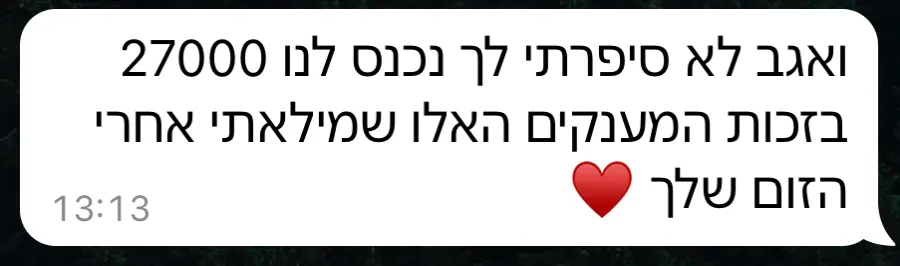
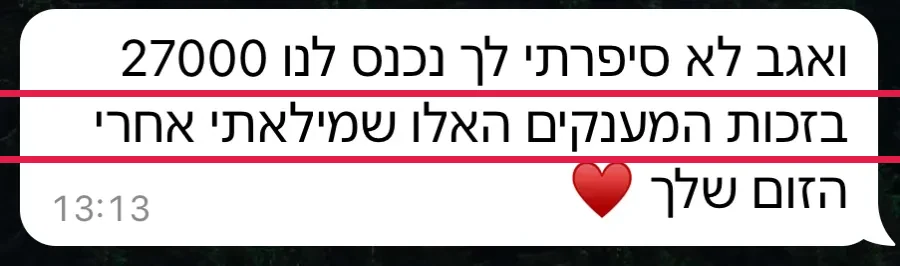
קו אדום מתחת למשפט החשוב בכל הודעה, ההודעה הארוכה נחתכה, רותם במקום הדר, כותרת גדולה
- 19 צילומי הווטסאפ: קו אדום מתחת למשפט (או 2-3) הכי חשוב.
  המקורות בלי הקווים נשמרו ב-work/wa-src, והקוד ב-work/wa_underline.py
- "היי עדי! קודם כל רוצה להגיד לך תודה…" נחתכה אחרי "פתח לי עולם שלם",
  ועברה להרצאת יועץ ההשקעות ליד "מאז ההרצאה קיבלתי אומץ"
- הסרטון של רותם במקום של הדר גלזר ("הכסף שלך ושל בעלך"), הדר בסוף העדויות
- "אמא משקיעה" בראש הדף גדולה בהרבה, בשורה אחת גם בטלפון
- לפני "ב-6 שנים": רקע אפור בהיר במקום אותו קרם, ופחות רווח מתחת לראש הדף

Changed region(s): [[0.0, 0.5714, 1.0, 0.6316], [0.0, 0.3308, 1.0, 0.391]]

diff --git a/index.html b/index.html
@@ -113,7 +113,7 @@ header.site{padding:18px 0 4px}
 header.site img{height:46px;width:auto}
 
 /* hero */
-.hero{padding-top:clamp(22px,4vw,44px)}
+.hero{padding-top:clamp(22px,4vw,44px);padding-bottom:clamp(20px,4vw,40px)}
 .hero .sub{font-size:clamp(1.15rem,3vw,1.35rem);font-weight:500;color:var(--ink-soft);margin:16px auto 26px;line-height:1.5;max-width:32ch}
 .hero h1 .accent{color:var(--pink)}
 /* הכותרת הראשית רחבה מהעמודה בדסקטופ, כדי לא להישבר ל-6 שורות */
@@ -588,7 +588,8 @@ html.a11y-noanim *{animation:none!important;transition:none!important;scroll-beh
 .phones figcaption{text-align:center}
 .checks{margin-inline:auto}
 .checks li{margin-inline:auto}
-.hero .hero-brand{color:var(--pink);margin:6px 0 0}
+.hero .hero-brand{color:var(--pink);margin:10px 0 0;font-size:clamp(2.1rem,9.4vw,3.8rem);line-height:1.1;white-space:nowrap}
+.hero .hero-brand::before,.hero .hero-brand::after{width:clamp(18px,5vw,48px);height:5px;margin:0 clamp(8px,2.4vw,14px)}
 .story-checks{margin:26px auto 0;display:grid;gap:14px;padding:0;list-style:none}
 .story-checks li{font-size:1.1rem;line-height:1.55;max-width:36ch}
 </style>
@@ -614,7 +615,7 @@ html.a11y-noanim *{animation:none!important;transition:none!important;scroll-beh
 </section>
 
 <!-- ========== הסיפור ========== -->
-<section class="story band-cream">
+<section class="story band-gray">
   <div class="wrap">
     <p class="bignum">ב-6 שנים האחרונות הכנסתי כל חודש בין מאות לאלפי שקלים בלי להתעסק בזה בכלל…</p>
 <!-- ===== ממתין מעדי: צילומי מסך של חודשים עוקבים.
@@ -666,10 +667,10 @@ html.a11y-noanim *{animation:none!important;transition:none!important;scroll-beh
     </ul>
     <div class="proof"><span class="proof-lbl">מהשטח</span><div class="proof-items two">
       <div class="vid">
-        <div class="frame" data-vid="1115442335"><img src="assets/v-hadar.webp" alt="" width="540" height="960" loading="lazy"><button class="play" type="button" aria-label="לצפייה בעדות של הדר"><span><svg viewBox="0 0 24 24" fill="#191A2E" aria-hidden="true"><path d="M8 5v14l11-7z"/></svg></span></button></div>
-        <blockquote>"בעלי ואני מדברים על כסף ומחליטים החלטות יחד."<b>הדר גלזר</b></blockquote>
+        <div class="frame" data-vid="1115442139"><img src="assets/v-rotem.webp" alt="" width="540" height="960" loading="lazy"><button class="play" type="button" aria-label="לצפייה בעדות של רותם"><span><svg viewBox="0 0 24 24" fill="#191A2E" aria-hidden="true"><path d="M8 5v14l11-7z"/></svg></span></button></div>
+        <blockquote>"הפקדתי גם לקרן השתלמות, גם לקופת גמל, וגם קנינו דירה להשקעה תוך כדי התכנית."<b>רותם</b></blockquote>
       </div>
-      <figure class="wa"><img src="assets/wa-t-zug.webp" alt="הודעה מזוג: בהחלט ההשקעה הכי טובה שעשינו. למדתי המון ושחר הרוויח שותפה לעניין הכלכלי. תודה שהיית קשובה לאורך התקופה" width="900" height="1163" loading="lazy"><figcaption>"ההשקעה הכי טובה שעשינו." והבעל הרוויח שותפה.</figcaption></figure>
+      <figure class="wa"><img src="assets/wa-t-zug.webp?v=u1" alt="הודעה מזוג: בהחלט ההשקעה הכי טובה שעשינו. למדתי המון ושחר הרוויח שותפה לעניין הכלכלי. תודה שהיית קשובה לאורך התקופה" width="900" height="1163" loading="lazy"><figcaption>"ההשקעה הכי טובה שעשינו." והבעל הרוויח שותפה.</figcaption></figure>
     </div></div>
   </div>
 </section>
@@ -685,7 +686,7 @@ html.a11y-noanim *{animation:none!important;transition:none!important;scroll-beh
         <div class="frame" data-vid="1167389559"><img src="assets/v-aluma.webp" alt="" width="540" height="960" loading="lazy"><button class="play" type="button" aria-label="לצפייה בעדות של אלומה"><span><svg viewBox="0 0 24 24" fill="#191A2E" aria-hidden="true"><path d="M8 5v14l11-7z"/></svg></span></button></div>
         <blockquote>"מצאתי מעל 200 אלף ₪ שלא ידעתי שיש לי."<b>אלומה וייס</b></blockquote>
       </div>
-      <figure class="wa"><img src="assets/wa-t-17205.webp" alt="הודעה: בזכות הקורס יצרתי קשר עם החזרי מס, ואתמול אני ובעלי קיבלנו 17,205 ש״ח לחשבון" width="900" height="1043" loading="lazy"><figcaption>17,205 ₪ החזר מס שנכנס לחשבון.</figcaption></figure>
+      <figure class="wa"><img src="assets/wa-t-17205.webp?v=u1" alt="הודעה: בזכות הקורס יצרתי קשר עם החזרי מס, ואתמול אני ובעלי קיבלנו 17,205 ש״ח לחשבון" width="900" height="1043" loading="lazy"><figcaption>17,205 ₪ החזר מס שנכנס לחשבון.</figcaption></figure>
     </div></div>
   </div>
 </section>
@@ -711,7 +712,7 @@ html.a11y-noanim *{animation:none!important;transition:none!important;scroll-beh
         <div class="have">כל הכסף הפנוי שלך, גם זה שלא ידעת על קיומו.</div>
         <p class="ex">לאלומה מצאנו מעל 200,000 ש״ח בקופה שהיא לא ידעה על קיומה. לרוב אנחנו מוצאות בממוצע 20,000 ש״ח אבודים בקופות נסתרות.</p>
     <div class="proof"><span class="proof-lbl">מהשטח</span><div class="proof-items">
-      <figure class="wa"><img src="assets/wa-t-27000.webp" alt="הודעה: ואגב לא סיפרתי לך, נכנס לנו 27,000 בזכות המענקים האלו שמילאתי אחרי הזום שלך" width="900" height="266" loading="lazy"><figcaption>27,000 ₪ ממענקים. אחרי זום אחד.</figcaption></figure>
+      <figure class="wa"><img src="assets/wa-t-27000.webp?v=u1" alt="הודעה: ואגב לא סיפרתי לך, נכנס לנו 27,000 בזכות המענקים האלו שמילאתי אחרי הזום שלך" width="900" height="266" loading="lazy"><figcaption>27,000 ₪ ממענקים. אחרי זום אחד.</figcaption></figure>
     </div></div>
       </li>
       <li class="station">
@@ -728,7 +729,7 @@ html.a11y-noanim *{animation:none!important;transition:none!important;scroll-beh
         <p>קודם הגב. כמה חודשי מחיה מתאימים לכן, איפה הכסף הזה יושב כדי שיהיה זמין ולא יישחק, ואיך הוא נשאר בצד גם כשיש פיתוי. זה מה שנותן שקט לפני שנוגעים בהשקעות.</p>
         <div class="have">קרן חירום מוגדרת, במקום הנכון.</div>
     <div class="proof"><span class="proof-lbl">מהשטח</span><div class="proof-items">
-      <figure class="wa"><img src="assets/wa-t-tama.webp" alt="הודעה: רציתי להגיד ששמתי בקרן כספית סכום של 3 חודשי מחיה שלי, וזה עשה לי הרגשה כל כך טובה" width="900" height="1116" loading="lazy"><figcaption>קרן חירום של 3 חודשי מחיה. "הרגשה כל כך טובה."</figcaption></figure>
+      <figure class="wa"><img src="assets/wa-t-tama.webp?v=u1" alt="הודעה: רציתי להגיד ששמתי בקרן כספית סכום של 3 חודשי מחיה שלי, וזה עשה לי הרגשה כל כך טובה" width="900" height="1116" loading="lazy"><figcaption>קרן חירום של 3 חודשי מחיה. "הרגשה כל כך טובה."</figcaption></figure>
     </div></div>
       </li>
       <li class="station">
@@ -744,12 +745,8 @@ html.a11y-noanim *{animation:none!important;transition:none!important;scroll-beh
         <h3>הביצוע, עם אנשי המקצוע</h3>
         <p>הפגישה האישית עם עמית ביטון, הסוכן הפנסיוני של הצוות: מסלקה, דמי ניהול, סידור הפנסיה והביטוחים. פותחות מה שצריך, ומורידות הוראת קבע להשקעות. ומי שרוצה פותחת גם תיק השקעות עצמאי, עם מענה אישי מ-IBI על הפתיחה ומיועץ ההשקעות על התמהיל בפנים. הם עושים את הבירוקרטיה, את מקבלת את הבהירות.</p>
         <div class="have">חשבונות פתוחים והוראת קבע שמוגדרת.</div>
-    <div class="proof"><span class="proof-lbl">מהשטח</span><div class="proof-items two">
-      <div class="vid">
-        <div class="frame" data-vid="1115442139"><img src="assets/v-rotem.webp" alt="" width="540" height="960" loading="lazy"><button class="play" type="button" aria-label="לצפייה בעדות של רותם"><span><svg viewBox="0 0 24 24" fill="#191A2E" aria-hidden="true"><path d="M8 5v14l11-7z"/></svg></span></button></div>
-        <blockquote>"הפקדתי גם לקרן השתלמות, גם לקופת גמל, וגם קנינו דירה להשקעה תוך כדי התכנית."<b>רותם</b></blockquote>
-      </div>
-      <figure class="wa"><img src="assets/wa-t-openacc.webp" alt="הודעה: ברוך השם בזכותך אחרי הרבה שיעורי בית פתחתי קרן השתלמות, קרן פנסיה וקופת גמל להשקעה ממש היום. אין לתאר כמה שזה קרה אך ורק בעקבות הקורס" width="900" height="589" loading="lazy"><figcaption>פתחה קרן השתלמות, פנסיה וגמל להשקעה. באותו יום.</figcaption></figure>
+    <div class="proof"><span class="proof-lbl">מהשטח</span><div class="proof-items">
+      <figure class="wa"><img src="assets/wa-t-openacc.webp?v=u1" alt="הודעה: ברוך השם בזכותך אחרי הרבה שיעורי בית פתחתי קרן השתלמות, קרן פנסיה וקופת גמל להשקעה ממש היום. אין לתאר כמה שזה קרה אך ורק בעקבות הקורס" width="900" height="589" loading="lazy"><figcaption>פתחה קרן השתלמות, פנסיה וגמל להשקעה. באותו יום.</figcaption></figure>
     </div></div>
       </li>
       <li class="station finish">
@@ -786,7 +783,7 @@ html.a11y-noanim *{animation:none!important;transition:none!important;scroll-beh
         <div class="frame" data-vid="1167389305"><img src="assets/v-racheli.webp" alt="" width="540" height="960" loading="lazy"><button class="play" type="button" aria-label="לצפייה בעדות של רחלי"><span><svg viewBox="0 0 24 24" fill="#191A2E" aria-hidden="true"><path d="M8 5v14l11-7z"/></svg></span></button></div>
         <blockquote>"לא מאמינה שלא ידעתי את הדברים האלה לפני."<b>רחלי</b></blockquote>
       </div>
-      <figure class="wa"><img src="assets/wa-t-liat.webp" alt="הודעה: כל שיעור היה מדהים, מעניין, פותח את הראש. לפעמים מעצבן כי ביאס אותי שלא ידעתי את הדברים האלה לפני. כמה למדתי אפילו רק בשיעור אחד" width="900" height="1778" loading="lazy"><figcaption>"כמה למדתי, אפילו רק בשיעור אחד."</figcaption></figure>
+      <figure class="wa"><img src="assets/wa-t-liat.webp?v=u1" alt="הודעה: כל שיעור היה מדהים, מעניין, פותח את הראש. לפעמים מעצבן כי ביאס אותי שלא ידעתי את הדברים האלה לפני. כמה למדתי אפילו רק בשיעור אחד" width="900" height="1778" loading="lazy"><figcaption>"כמה למדתי, אפילו רק בשיעור אחד."</figcaption></figure>
     </div></div>
 
     <div class="library">
@@ -828,8 +825,8 @@ html.a11y-noanim *{animation:none!important;transition:none!important;scroll-beh
       <p class="note">החלוקה משתנה מאישה לאישה. זה בדיוק מה שבונים בליווי, על המספרים שלך.</p>
     </div>
     <div class="proof"><span class="proof-lbl">מהשטח</span><div class="proof-items two">
-      <figure class="wa"><img src="assets/wa-t-180.webp" alt="הודעה: שינוי של 180 מעלות באיך אני תופסת כסף. כספית נוסך בי ממש ביטחון, כי בסוף זה כסף שלא בעוש ולא פתאום יעלם לי. מעין שליטה על הכסף שלי" width="900" height="852" loading="lazy"><figcaption>שינוי של 180 מעלות. ותחושת שליטה על הכסף.</figcaption></figure>
-      <figure class="wa"><img src="assets/wa-t-minus.webp" alt="הודעה: עוררת בי מודעות והתחלתי תהליך, סוף סוף יצאתי מהמינוס ואני בתזרים חיובי" width="900" height="450" loading="lazy"><figcaption>סוף סוף יצאה מהמינוס. ובתזרים חיובי.</figcaption></figure>
+      <figure class="wa"><img src="assets/wa-t-180.webp?v=u1" alt="הודעה: שינוי של 180 מעלות באיך אני תופסת כסף. כספית נוסך בי ממש ביטחון, כי בסוף זה כסף שלא בעוש ולא פתאום יעלם לי. מעין שליטה על הכסף שלי" width="900" height="852" loading="lazy"><figcaption>שינוי של 180 מעלות. ותחושת שליטה על הכסף.</figcaption></figure>
+      <figure class="wa"><img src="assets/wa-t-minus.webp?v=u1" alt="הודעה: עוררת בי מודעות והתחלתי תהליך, סוף סוף יצאתי מהמינוס ואני בתזרים חיובי" width="900" height="450" loading="lazy"><figcaption>סוף סוף יצאה מהמינוס. ובתזרים חיובי.</figcaption></figure>
     </div></div>
   </div>
 </section>
@@ -857,13 +854,17 @@ html.a11y-noanim *{animation:none!important;transition:none!important;scroll-beh
         <div class="frame" data-vid="1115441958"><img src="assets/v-liat.webp" alt="" width="540" height="960" loading="lazy"><button class="play" type="button" aria-label="לצפייה בעדות של ליאת"><span><svg viewBox="0 0 24 24" fill="#191A2E" aria-hidden="true"><path d="M8 5v14l11-7z"/></svg></span></button></div>
         <blockquote>"פתח אותי ואת בעלי לעולם ההשקעות ושינה לנו את החיים."<b>ליאת לנג</b></blockquote>
       </div>
+      <div class="vid">
+        <div class="frame" data-vid="1115442335"><img src="assets/v-hadar.webp" alt="" width="540" height="960" loading="lazy"><button class="play" type="button" aria-label="לצפייה בעדות של הדר"><span><svg viewBox="0 0 24 24" fill="#191A2E" aria-hidden="true"><path d="M8 5v14l11-7z"/></svg></span></button></div>
+        <blockquote>"בעלי ואני מדברים על כסף ומחליטים החלטות יחד."<b>הדר גלזר</b></blockquote>
+      </div>
     </div>
 
     <h3 class="wall-title">ומה שהן כותבות לי בווטסאפ</h3>
     <div class="wall">
-      <figure class="wa"><img src="assets/wa-t-shira-hero.webp" alt="הודעה משירה: אמאלה עדי קנינו דירה להשקעה. איפה הייתי לפני שנה בלי שום הבנה, זו מתנה ענקית לעתיד שלנו" width="900" height="493" loading="lazy"><figcaption>קנו דירה להשקעה. "איפה הייתי לפני שנה."</figcaption></figure>
-      <figure class="wa"><img src="assets/wa-t-dira.webp" alt="הודעה: חתמנו על דירה להשקעה. המהלך הזה באמת יכול לשנות לנו את החיים. עסקה שווה שלא היינו מחפשים בכלל בלי הידע" width="900" height="1191" loading="lazy"><figcaption>חתמו על דירה להשקעה. עסקה שלא היו מחפשים בלי הידע.</figcaption></figure>
-      <figure class="wa"><img src="assets/wa-t-thailand.webp" alt="הודעה: תאילנד תמיד נראתה לנו חלום רחוק. בעקבות הקורס השקענו כסף שסתם ישב וסיימנו עם רכישת דירה" width="900" height="772" loading="lazy"><figcaption>השקיעו כסף שסתם ישב, סיימו רכישת דירה. ותאילנד.</figcaption></figure>
+      <figure class="wa"><img src="assets/wa-t-shira-hero.webp?v=u1" alt="הודעה משירה: אמאלה עדי קנינו דירה להשקעה. איפה הייתי לפני שנה בלי שום הבנה, זו מתנה ענקית לעתיד שלנו" width="900" height="493" loading="lazy"><figcaption>קנו דירה להשקעה. "איפה הייתי לפני שנה."</figcaption></figure>
+      <figure class="wa"><img src="assets/wa-t-dira.webp?v=u1" alt="הודעה: חתמנו על דירה להשקעה. המהלך הזה באמת יכול לשנות לנו את החיים. עסקה שווה שלא היינו מחפשים בכלל בלי הידע" width="900" height="1191" loading="lazy"><figcaption>חתמו על דירה להשקעה. עסקה שלא היו מחפשים בלי הידע.</figcaption></figure>
+      <figure class="wa"><img src="assets/wa-t-thailand.webp?v=u1" alt="הודעה: תאילנד תמיד נראתה לנו חלום רחוק. בעקבות הקורס השקענו כסף שסתם ישב וסיימנו עם רכישת דירה" width="900" height="772" loading="lazy"><figcaption>השקיעו כסף שסתם ישב, סיימו רכישת דירה. ותאילנד.</figcaption></figure>
     </div>
   </div>
 </section>
@@ -890,7 +891,7 @@ html.a11y-noanim *{animation:none!important;transition:none!important;scroll-beh
       <img src="assets/ph-baby.webp" alt="עדי מרימה את התינוקת שלה על חוף" width="800" height="1423" loading="lazy">
     </div>
     <div class="proof"><span class="proof-lbl">מהשטח</span><div class="proof-items">
-      <figure class="wa"><img src="assets/wa-t-tama2.webp" alt="הודעה: הקורס שלך והליווי אחריו היה לי סופר משמעותי ובהחלט משנה חיים. ובעקבותיו הלכתי ללמוד להיות מנחת נוער להתנהלות כלכלית נכונה" width="900" height="1587" loading="lazy"><figcaption>"הקורס והליווי היו משנה חיים." והלכה ללמד את זה הלאה.</figcaption></figure>
+      <figure class="wa"><img src="assets/wa-t-tama2.webp?v=u1" alt="הודעה: הקורס שלך והליווי אחריו היה לי סופר משמעותי ובהחלט משנה חיים. ובעקבותיו הלכתי ללמוד להיות מנחת נוער להתנהלות כלכלית נכונה" width="900" height="1587" loading="lazy"><figcaption>"הקורס והליווי היו משנה חיים." והלכה ללמד את זה הלאה.</figcaption></figure>
     </div></div>
   </div>
 </section>
@@ -915,7 +916,7 @@ html.a11y-noanim *{animation:none!important;transition:none!important;scroll-beh
         <figcaption>קבוצת הליווי: שאלות, חיזוקים, ומענה שלי ושל הצוות.</figcaption>
       </figure></div>
     <div class="proof"><span class="proof-lbl">מהשטח</span><div class="proof-items">
-      <figure class="wa"><img src="assets/wa-t-group.webp" alt="הודעה: המוח שלי מתפוצץ ואני מתה על זה. מרגיש באמת שיש קבוצת בנות איכותית וסביבה מקדמת" width="900" height="567" loading="lazy"><figcaption>קבוצת בנות איכותית וסביבה מקדמת.</figcaption></figure>
+      <figure class="wa"><img src="assets/wa-t-group.webp?v=u1" alt="הודעה: המוח שלי מתפוצץ ואני מתה על זה. מרגיש באמת שיש קבוצת בנות איכותית וסביבה מקדמת" width="900" height="567" loading="lazy"><figcaption>קבוצת בנות איכותית וסביבה מקדמת.</figcaption></figure>
     </div></div></div></div>
       <div class="inc-row"><span class="n">2</span><h3>אזור אישי שמלווה אותך</h3><small>עם כל הנתונים שלך, במקום אחד</small><p>את נכנסת ורואה בדיוק מה הצעד הבא. לא צריך לזכור כלום. לא צריך לחפש כלום.</p><div class="inc-vis"><span class="tag">הדמיה · נתונים לדוגמה</span><div class="phones">
       <figure>
@@ -939,19 +940,17 @@ html.a11y-noanim *{animation:none!important;transition:none!important;scroll-beh
           <span class="meet-time">שבוע 3 · בזום · את מקבלת סיכום כתוב</span>
         </div>
         <figcaption>הפגישה שבה הבירוקרטיה נעשית, ואת מקבלת בהירות.</figcaption>
-      </figure>
-    <div class="proof"><span class="proof-lbl">מהשטח</span><div class="proof-items">
-      <figure class="wa"><img src="assets/wa-t-hila.webp" alt="הודעה: הקורס בנוי בצורה גאונית. אני עוד מוצפת אבל כבר רואה איך זה פתח לי עולם שלם. יש לי סוכן פנסיוני אבל אני לא מרגישה שאני באמת מבינה מה יש לי" width="900" height="1587" loading="lazy"><figcaption>"בנוי בצורה גאונית. פתח לי עולם שלם."</figcaption></figure>
-    </div></div></div></div>
+      </figure></div></div>
       <div class="inc-row"><span class="n">4</span><h3>הרצאה של יועץ ההשקעות</h3><small>בתוך התוכנית</small><p>המושגים נהיים ברורים. מסלולים, מדדים, דמי ניהול, בשפה של אמא.</p><div class="inc-vis">
-    <div class="proof"><span class="proof-lbl">מהשטח</span><div class="proof-items">
-      <figure class="wa"><img src="assets/wa-t-tik.webp" alt="הודעה: מאז ההרצאה קיבלתי אומץ ופתחנו תיק בחברת השקעות ומשקיעים את כל הכסף שהצטבר בחיסכון ובעו״ש" width="900" height="765" loading="lazy"><figcaption>אחרי ההרצאה: פתחו תיק, והכסף שישב בעו״ש התחיל לעבוד.</figcaption></figure>
+    <div class="proof"><span class="proof-lbl">מהשטח</span><div class="proof-items two">
+      <figure class="wa"><img src="assets/wa-t-tik.webp?v=u1" alt="הודעה: מאז ההרצאה קיבלתי אומץ ופתחנו תיק בחברת השקעות ומשקיעים את כל הכסף שהצטבר בחיסכון ובעו״ש" width="900" height="765" loading="lazy"><figcaption>אחרי ההרצאה: פתחו תיק, והכסף שישב בעו״ש התחיל לעבוד.</figcaption></figure>
+      <figure class="wa"><img src="assets/wa-t-hila.webp?v=u1" alt="הודעה: היי עדי! קודם כל רוצה להגיד לך תודה על הקורס הזה. אני שמחה מאוד שנרשמתי! והוא ממש בנוי בצורה גאונית. אני עוד overwhelmed ולא ממש מצליחה לנסח משהו קצת יותר קונקרטי, אבל אני כבר רואה איך זה פתח לי עולם שלם." width="900" height="729" loading="lazy"><figcaption>"בנוי בצורה גאונית. פתח לי עולם שלם."</figcaption></figure>
     </div></div></div></div>
       <div class="inc-row"><span class="n">5</span><h3>בונוס: מפגש שאלות ותשובות</h3><small>עם יועץ ההשקעות</small><p>השאלות שלך, שנענות לפני שאת חותמת על משהו.</p></div>
       <div class="inc-row"><span class="n">6</span><h3>פתיחת תיק השקעות עצמאי, עם ליווי</h3><small>והטבה על הפתיחה, למי שרוצה</small><p>מי שרוצה פותחת תיק עצמאי, ולא נשארת עם זה לבד: מענה אישי מ-IBI על הצד הטכני של פתיחת התיק, ומענה של יועץ ההשקעות על איך מרכיבים אותו מבפנים, התמהיל עצמו.</p></div>
       <div class="inc-row"><span class="n">7</span><h3>בונוס: ספריית התכנים של אמא משקיעה</h3><small>שיעורי עומק עם אנשי מקצוע, לפי נושאים</small><p>שוק ההון, נדל״ן בארץ ובחו״ל, קריפטו, מוצרים פנסיוניים, תודעה, התנהלות פיננסית ועוד. נפתחת לך, ואת צופה בזמן שלך במה שמעניין אותך.</p><div class="inc-vis">
     <div class="proof"><span class="proof-lbl">מהשטח</span><div class="proof-items">
-      <figure class="wa"><img src="assets/wa-t-shave.webp" alt="הודעה: לא משנה כמה כסף שמתי על הקורס הזה, מבחינתי קיבלתי מתנה. כל שיעור מרחיב את הידע והתודעה" width="900" height="917" loading="lazy"><figcaption>"לא משנה כמה שילמתי. קיבלתי מתנה."</figcaption></figure>
+      <figure class="wa"><img src="assets/wa-t-shave.webp?v=u1" alt="הודעה: לא משנה כמה כסף שמתי על הקורס הזה, מבחינתי קיבלתי מתנה. כל שיעור מרחיב את הידע והתודעה" width="900" height="917" loading="lazy"><figcaption>"לא משנה כמה שילמתי. קיבלתי מתנה."</figcaption></figure>
     </div></div></div></div>
     </div>
     <p class="inc-foot">את מקבלת את ההחלטות. הצוות עוזר לך לבצע אותן. ואף שלב לא לבד.</p>
@@ -999,7 +998,7 @@ html.a11y-noanim *{animation:none!important;transition:none!important;scroll-beh
       <p class="micro" style="margin-top:20px"><strong>אחריות מלאה:</strong> עברת את הליווי, הגעת למפגשים, ולא יצאת עם מפת דרכים ברורה? החזר מלא, בלי שאלות.<br>תשלום מאובטח בקארדקום.</p>
     </div>
     <div class="proof"><span class="proof-lbl">מהשטח</span><div class="proof-items">
-      <figure class="wa"><img src="assets/wa-t-haim.webp" alt="הודעה: באמת השתנו לנו החיים. תפיסה שהשתנתה 180 מעלות, דיבור שונה לחלוטין. ומה שכיף שזה גרם גם לבעלי להיות איתי בזה" width="900" height="1124" loading="lazy"><figcaption>"באמת השתנו לנו החיים." וגם בעלה איתה בזה.</figcaption></figure>
+      <figure class="wa"><img src="assets/wa-t-haim.webp?v=u1" alt="הודעה: באמת השתנו לנו החיים. תפיסה שהשתנתה 180 מעלות, דיבור שונה לחלוטין. ומה שכיף שזה גרם גם לבעלי להיות איתי בזה" width="900" height="1124" loading="lazy"><figcaption>"באמת השתנו לנו החיים." וגם בעלה איתה בזה.</figcaption></figure>
     </div></div>
   </div>
 </section>
@@ -1056,7 +1055,7 @@ html.a11y-noanim *{animation:none!important;transition:none!important;scroll-beh
       </div>
     </div>
     <div class="proof"><span class="proof-lbl">מהשטח</span><div class="proof-items">
-      <figure class="wa"><img src="assets/wa-t-wa1.webp" alt="הודעה: תודה מעומק הלב על התכנית שלך שהעירה אותי והתחילה לגלגל אותי לאן שאני נמצאת היום. איפה הייתי לפני שנה והיום זה לא להאמין. במיינדסט, בפעולות, וגם בתזרים" width="900" height="1363" loading="lazy"><figcaption>"איפה הייתי לפני שנה והיום. במיינדסט, בפעולות, ובתזרים."</figcaption></figure>
+      <figure class="wa"><img src="assets/wa-t-wa1.webp?v=u1" alt="הודעה: תודה מעומק הלב על התכנית שלך שהעירה אותי והתחילה לגלגל אותי לאן שאני נמצאת היום. איפה הייתי לפני שנה והיום זה לא להאמין. במיינדסט, בפעולות, וגם בתזרים" width="900" height="1363" loading="lazy"><figcaption>"איפה הייתי לפני שנה והיום. במיינדסט, בפעולות, ובתזרים."</figcaption></figure>
     </div></div>
   </div>
 </section>
@@ -1110,7 +1109,7 @@ html.a11y-noanim *{animation:none!important;transition:none!important;scroll-beh
     <p class="micro">3 × 999 ₪ · או 2,800 ₪ בתשלום אחד · יוצאות לדרך 5.10</p>
     <a class="wa-link" data-cta="whatsapp" href="https://wa.me/972509563781?text=%D7%94%D7%99%D7%99%20%D7%A2%D7%93%D7%99%2C%20%D7%99%D7%A9%20%D7%9C%D7%99%20%D7%A9%D7%90%D7%9C%D7%94%20%D7%A2%D7%9C%20%D7%94%D7%9C%D7%99%D7%95%D7%95%D7%99" target="_blank" rel="noopener">יש לך שאלה לפני שאת מצטרפת? כתבי לי בווטסאפ &raquo;</a>
     <div class="proof"><span class="proof-lbl">מהשטח</span><div class="proof-items">
-      <figure class="wa"><img src="assets/wa-t-ribit.webp" alt="הודעה: הילד ראה פרסומת על ריבית ושאל מה זו ריבית, ועשיתי לו שיעור בהשקעות. מרגש אותי שאני יכולה להעביר לילדים שלי התנהלות נכונה עם הכסף" width="900" height="714" loading="lazy"><figcaption>הילד שאל מה זו ריבית. וקיבל שיעור מאמא.</figcaption></figure>
+      <figure class="wa"><img src="assets/wa-t-ribit.webp?v=u1" alt="הודעה: הילד ראה פרסומת על ריבית ושאל מה זו ריבית, ועשיתי לו שיעור בהשקעות. מרגש אותי שאני יכולה להעביר לילדים שלי התנהלות נכונה עם הכסף" width="900" height="714" loading="lazy"><figcaption>הילד שאל מה זו ריבית. וקיבל שיעור מאמא.</figcaption></figure>
     </div></div>
   </div>
 </section>
